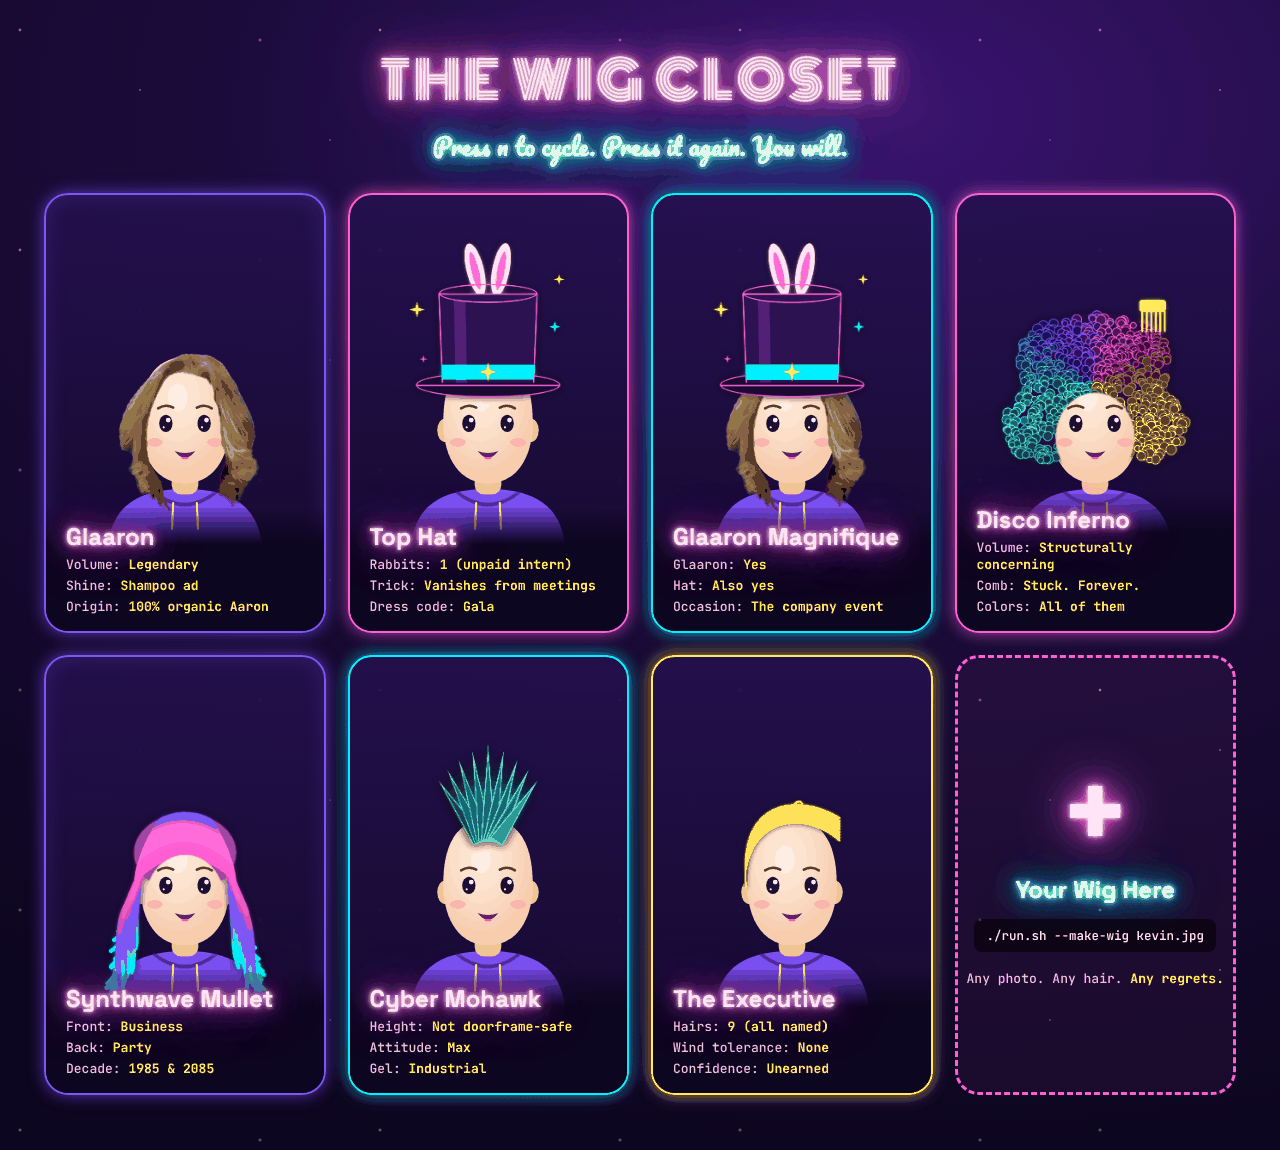
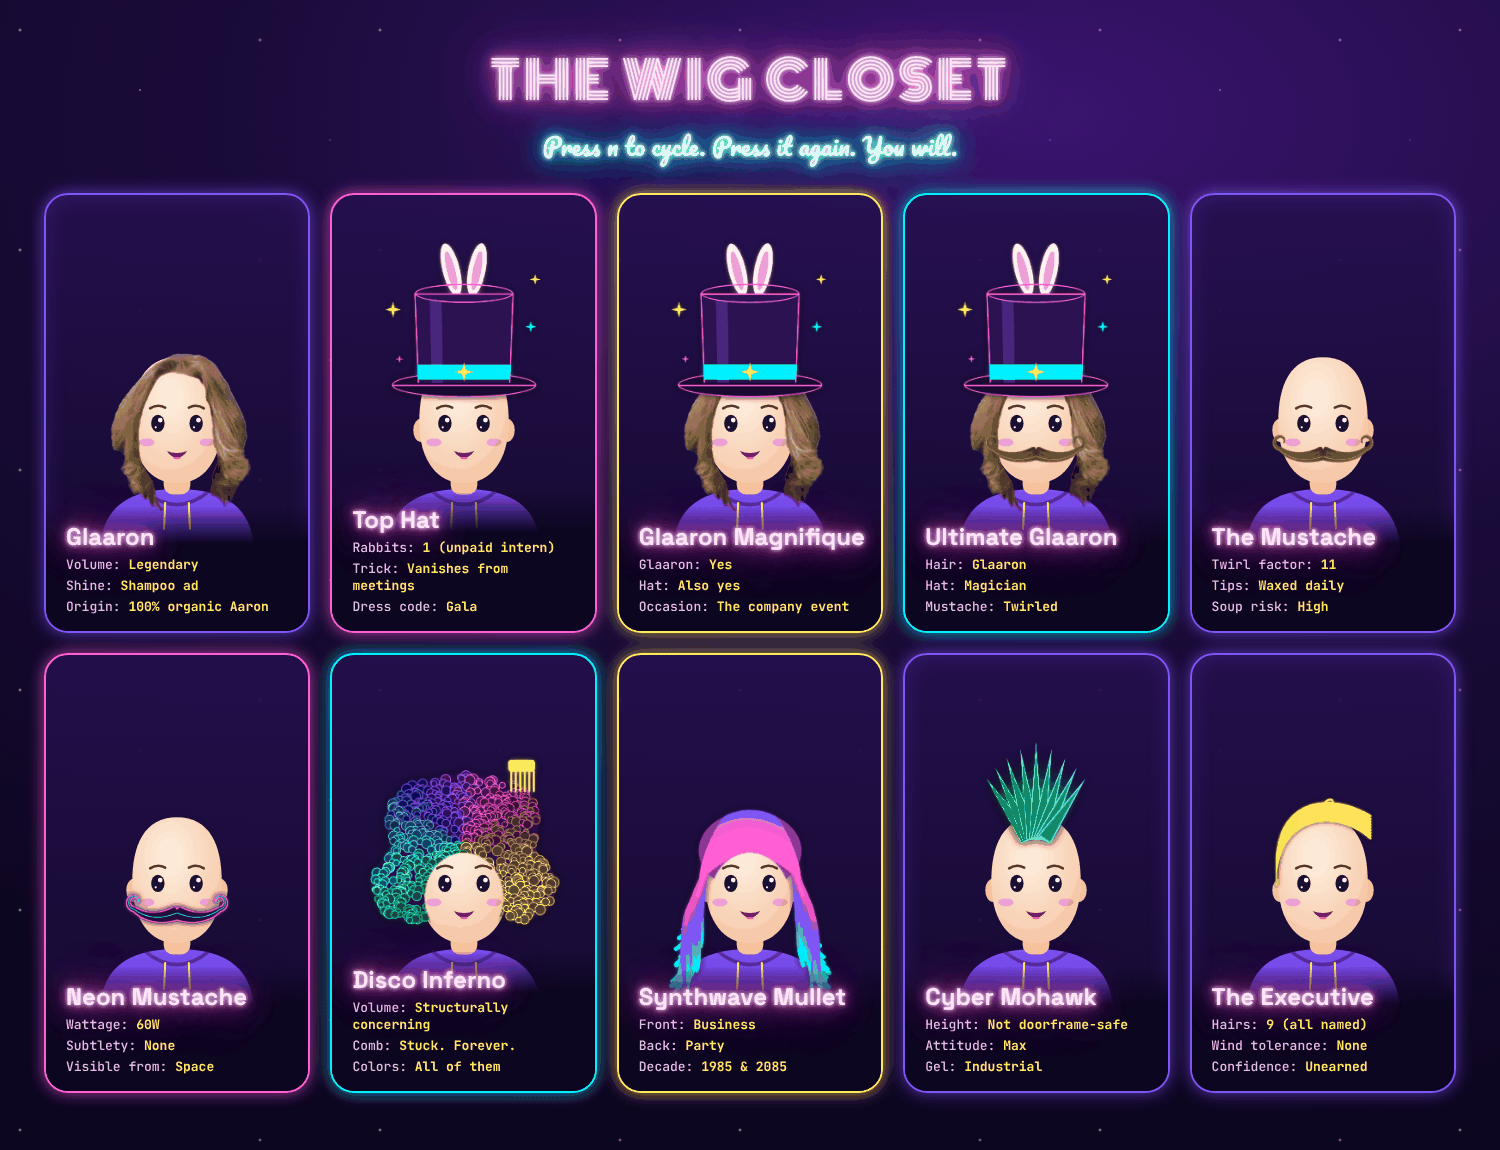
Add The Mustache, Neon Mustache and The Ultimate Glaaron (v1.2.0)
- Brown handlebar mustache with strand texture, and a neon-tube version
- The Ultimate Glaaron: Glaaron hair + top hat + mustache, wig #4
- README art and wig table updated

Claude-Session: https://claude.ai/code/session_0142athTo3ABiBqVr5GGnaGY

diff --git a/tools/draw_wigs.py b/tools/draw_wigs.py
@@ -84,10 +84,13 @@ def finish(img, wig_id, name, order, hole=None, glow=14, glow_strength=1.0, unde
     """Add the neon glow, cut the face hole, crop, save. `under` is composited beneath without glow."""
     if hole is not None:
         img.putalpha(ImageChops.multiply(img.getchannel("A"), ImageChops.invert(hole)))
-    halo = img.filter(ImageFilter.GaussianBlur(glow * SS))
-    if glow_strength != 1.0:
-        halo.putalpha(halo.getchannel("A").point(lambda v: min(255, int(v * glow_strength))))
-    out = Image.alpha_composite(halo, img)
+    if glow:
+        halo = img.filter(ImageFilter.GaussianBlur(glow * SS))
+        if glow_strength != 1.0:
+            halo.putalpha(halo.getchannel("A").point(lambda v: min(255, int(v * glow_strength))))
+        out = Image.alpha_composite(halo, img)
+    else:
+        out = img
     if under is not None:
         out = Image.alpha_composite(under, out)
     if hole is not None:  # the halo shouldn't fog up your face either
@@ -250,8 +253,8 @@ def top_hat():
     finish(img, "top-hat", "Top Hat", 2, glow=14)
 
 
-def glaaron_magnifique():
-    """Glaaron's hair, crowned. For galas, award shows, and Tuesday standups."""
+def glaaron_in_canvas():
+    """Glaaron's hair warped onto the canonical face (supersampled canvas)."""
     sys.path.insert(0, str(REPO))
     from glamcam import similarity_transform
 
@@ -261,10 +264,128 @@ def glaaron_magnifique():
     m = np.vstack([similarity_transform(src, dst), [0, 0, 1]])
     inv = np.linalg.inv(m)[:2].flatten()
     hair = Image.open(WIGS / "glaaron.png").convert("RGBA")
-    hair = hair.transform((W * SS, H * SS), Image.AFFINE, tuple(inv), Image.BICUBIC)
+    return hair.transform((W * SS, H * SS), Image.AFFINE, tuple(inv), Image.BICUBIC)
+
+
+def glaaron_magnifique():
+    """Glaaron's hair, crowned. For galas, award shows, and Tuesday standups."""
     img = canvas()
     draw_top_hat(ImageDraw.Draw(img))
-    finish(img, "glaaron-magnifique", "Glaaron Magnifique", 3, glow=14, under=hair)
+    finish(img, "glaaron-magnifique", "Glaaron Magnifique", 3, glow=14, under=glaaron_in_canvas())
+
+
+def handlebar_path():
+    """Centerline + thickness of the right half of a handlebar mustache, canonical coords.
+    Sits between the base of the nose (y~145) and the top lip (y~190), curls up past the mouth corners."""
+    sweep = bezier([(4, 168), (75, 198), (150, 190), (198, 150)], 40)
+    pts = [(x, y, 64 - 42 * i / 40) for i, (x, y) in enumerate(sweep)]
+    cx, cy = 196, 114
+    for i in range(1, 46):  # the curl: around and up, tightening
+        f = i / 45
+        th = math.radians(80 - 290 * f)
+        r = 36 - 22 * f
+        pts.append((cx + r * math.cos(th), cy + r * math.sin(th), 22 - 18 * f))
+    return pts
+
+
+def offset_edges(path, side_scale=1.0):
+    """Left/right outline points of a variable-width path (canonical coords)."""
+    up, down = [], []
+    for i, (x, y, t) in enumerate(path):
+        x0, y0, _ = path[max(i - 1, 0)]
+        x1, y1, _ = path[min(i + 1, len(path) - 1)]
+        dx, dy = x1 - x0, y1 - y0
+        n = math.hypot(dx, dy) or 1
+        nx, ny = -dy / n, dx / n
+        h = t / 2 * side_scale
+        up.append((x + nx * h, y + ny * h))
+        down.append((x - nx * h, y - ny * h))
+    return up, down
+
+
+def mustache_shape():
+    """Both halves as polygons (canvas coords)."""
+    polys = []
+    for side in (1, -1):
+        up, down = offset_edges(handlebar_path())
+        poly = [(side * x, y) for x, y in up + down[::-1]]
+        polys.append([P(*q) for q in poly])
+    return polys
+
+
+def mustache_mask():
+    """Both halves joined in the middle as one shape, with a small notch under the nose."""
+    mask = Image.new("L", (W * SS, H * SS), 0)
+    md = ImageDraw.Draw(mask)
+    for poly in mustache_shape():
+        md.polygon(poly, fill=255)
+    md.ellipse([*P(-36, 138), *P(36, 198)], fill=255)
+    md.polygon([P(-12, 130), P(12, 130), P(0, 150)], fill=0)
+    return mask.filter(ImageFilter.GaussianBlur(1.2 * SS))
+
+
+def mustache_brown():
+    """Strand-by-strand: dark base, then hundreds of hairs following the curve."""
+    rnd = random.Random(11)
+    mask = mustache_mask()
+    hair = Image.new("RGBA", (W * SS, H * SS), (62, 36, 20, 255))
+    hd = ImageDraw.Draw(hair)
+    path = handlebar_path()
+    for _ in range(320):
+        f = rnd.uniform(-1.0, 1.0)
+        shade = rnd.uniform(0.75, 1.35)
+        col = (int(min(255, 112 * shade)), int(min(255, 70 * shade)), int(min(255, 38 * shade)), 255)
+        start = rnd.randint(0, 20)
+        for side in (1, -1):
+            line = []
+            for i, (x, y, t) in enumerate(path[start:]):
+                x0, y0, _ = path[max(start + i - 1, 0)]
+                x1, y1, _ = path[min(start + i + 1, len(path) - 1)]
+                n = math.hypot(x1 - x0, y1 - y0) or 1
+                nx, ny = -(y1 - y0) / n, (x1 - x0) / n
+                line.append(P(side * (x + nx * f * t / 2), y + ny * f * t / 2))
+            hd.line(line, fill=col, width=int(1.5 * SS))
+    # a glossy highlight along the top
+    for side in (1, -1):
+        up, _ = offset_edges(path, 0.45)
+        hd.line([P(side * x, y) for x, y in up[:70]], fill=(196, 140, 88, 200), width=int(3 * SS))
+    hair.putalpha(mask)
+    return hair
+
+
+def mustache_neon():
+    """The same handlebar, bent out of glass tubing."""
+    mask = mustache_mask()
+    grown = mask.filter(ImageFilter.MaxFilter(2 * int(3 * SS) + 1))
+    shrunk = mask.filter(ImageFilter.MinFilter(2 * int(3 * SS) + 1))
+    ring = ImageChops.subtract(grown, shrunk)
+    img = Image.new("RGBA", (W * SS, H * SS), (40, 12, 60, 0))
+    img.putalpha(mask)
+    img.alpha_composite(Image.composite(Image.new("RGBA", img.size, (255, 95, 210, 255)),
+                                        Image.new("RGBA", img.size, (0, 0, 0, 0)), ring))
+    d = ImageDraw.Draw(img)
+    path = handlebar_path()
+    spine = [P(-x, y) for x, y, t in path[::-1]] + [P(x, y) for x, y, t in path]
+    d.line(spine, fill=(0, 240, 255, 255), width=int(4 * SS), joint="curve")
+    return img
+
+
+def stache_brown():
+    """Distinguished. Twirlable. Not legally binding."""
+    finish(mustache_brown(), "mustache", "The Mustache", 5, glow=0)
+
+
+def stache_neon():
+    """Visible from space, or at least from the back of the all-hands."""
+    finish(mustache_neon(), "neon-mustache", "Neon Mustache", 6, glow=12, glow_strength=1.3)
+
+
+def ultimate_glaaron():
+    """Hair, hat, mustache. There is nothing left to add."""
+    under = Image.alpha_composite(glaaron_in_canvas(), mustache_brown())
+    img = canvas()
+    draw_top_hat(ImageDraw.Draw(img))
+    finish(img, "ultimate-glaaron", "The Ultimate Glaaron", 4, glow=14, under=under)
 
 
 if __name__ == "__main__":
@@ -275,3 +396,6 @@ if __name__ == "__main__":
     the_executive()
     top_hat()
     glaaron_magnifique()
+    stache_brown()
+    stache_neon()
+    ultimate_glaaron()

diff --git a/README.md b/README.md
@@ -24,7 +24,7 @@ You know that one coworker with *the hair*? Flowing. Luminous. Shampoo-commercia
 
 It finds your face 30 times a second, glues a wig to your forehead (it follows you when you lean, tilt, nod, or dramatically turn away from a bad idea), blurs the pile of laundry behind you, and pipes the whole thing into Google Meet, Zoom, or Teams as a normal-looking camera.
 
-Ships with **Glaaron**, the hair that started it all, a **neon magician's top hat** (with rabbit), Glaaron *wearing* the top hat, and four neon wigs nobody asked for. Or [make your own](#-make-your-own-wig) from any photo.
+Ships with **Glaaron**, the hair that started it all, a **neon magician's top hat** (with rabbit), **two sweet, sweet mustaches**, **The Ultimate Glaaron** (hair + hat + mustache), and four neon wigs nobody asked for. Or [make your own](#-make-your-own-wig) from any photo.
 
 | | |
 |---|---|
@@ -44,19 +44,24 @@ Ships with **Glaaron**, the hair that started it all, a **neon magician's top ha
 
 ## The Wig Closet
 
-<p align="center"><img src="assets/closet.png" alt="Seven wigs on a cartoon mascot: Glaaron, Top Hat, Glaaron Magnifique, Disco Inferno, Synthwave Mullet, Cyber Mohawk, The Executive, plus a slot for your own"></p>
+<p align="center"><img src="assets/closet.png" alt="Ten looks on a cartoon mascot: Glaaron, Top Hat, Glaaron Magnifique, Ultimate Glaaron, The Mustache, Neon Mustache, Disco Inferno, Synthwave Mullet, Cyber Mohawk, The Executive"></p>
 
 | Wig | `--wig` | Vibe |
 |---|---|---|
 | Glaaron | `glaaron` | The original. The legend. Default. |
 | Top Hat | `top-hat` | A neon magician's top hat. There is a rabbit. Company-event approved. |
 | Glaaron Magnifique | `glaaron-magnifique` | Glaaron, but wearing the top hat. Black tie optional, hair mandatory. |
+| The Ultimate Glaaron | `ultimate-glaaron` | Hair. Hat. Mustache. There is nothing left to add. |
+| The Mustache | `mustache` | A luxurious brown handlebar, waxed and twirled. Soup risk: high. |
+| Neon Mustache | `neon-mustache` | The same handlebar, bent out of glowing glass tubing. Visible from space. |
 | Disco Inferno | `disco-inferno` | Has a comb in it. The comb lives there now. |
 | Synthwave Mullet | `synthwave-mullet` | Business in the front, Miami Vice in the back. |
 | Cyber Mohawk | `cyber-mohawk` | Do not attempt doorways. |
 | The Executive | `the-executive` | Nine hairs. One dream. |
 
-Press **`n`** while it's running to cycle through them, in this order: one press from Glaaron gets you the top hat.
+Press **`n`** while it's running to cycle through them, in this order: from Glaaron, one press gets you the top hat and three get you The Ultimate Glaaron.
+
+> 🥸 **Mustache tip:** mustaches are pinned to your upper face like the wigs, so they don't flap when you talk. If one sits a bit high or low on your lip, nudge it with `w`/`s` and press `p` to save.
 
 > 🎩 **Tall hat tip:** the top hat (and the mohawk) go well above your head. If the top gets cut off, sit a little further back or press `-` to shrink it, then `p` to save.
 

diff --git a/.github/release-notes.md b/.github/release-notes.md
@@ -9,7 +9,7 @@ The Mac app is Apple Silicon only. Intel Macs can [run from source](https://gith
 
 ## In the wig closet
 
-Glaaron · 🎩 **Top Hat** (new) · **Glaaron Magnifique** (Glaaron + top hat, new) · Disco Inferno · Synthwave Mullet · Cyber Mohawk · The Executive. Press **n** to cycle.
+Glaaron · 🎩 Top Hat · Glaaron Magnifique · 👑 **The Ultimate Glaaron** (hair + hat + mustache, new) · 🥸 **The Mustache** (new) · **Neon Mustache** (new) · Disco Inferno · Synthwave Mullet · Cyber Mohawk · The Executive. Press **n** to cycle.
 
 ## First launch
 
